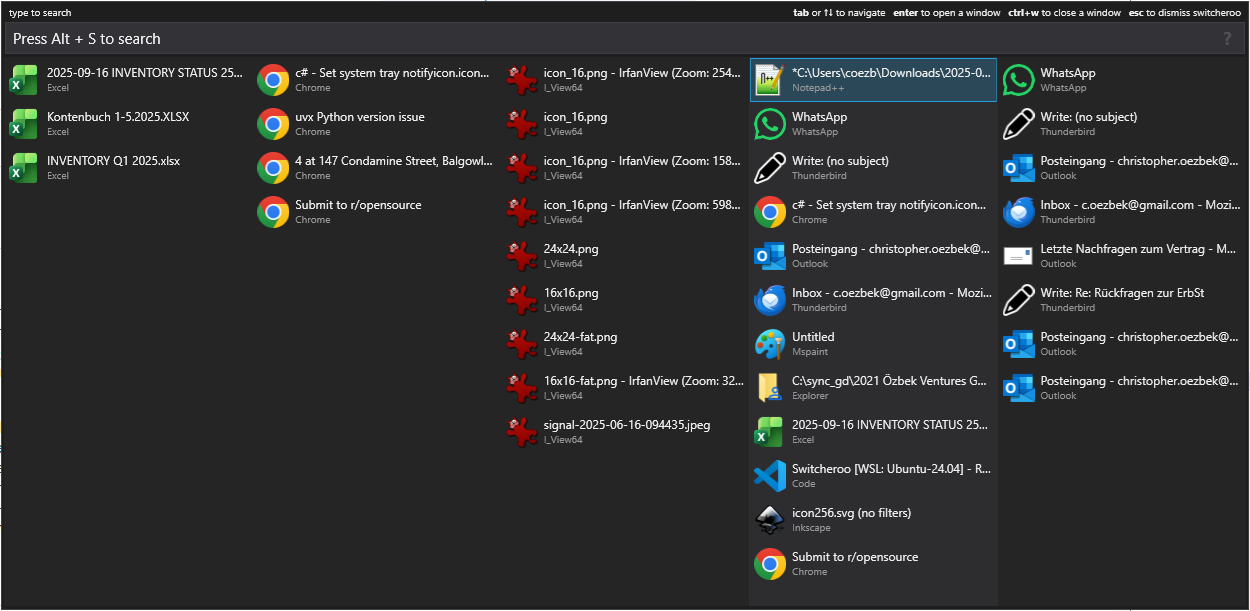
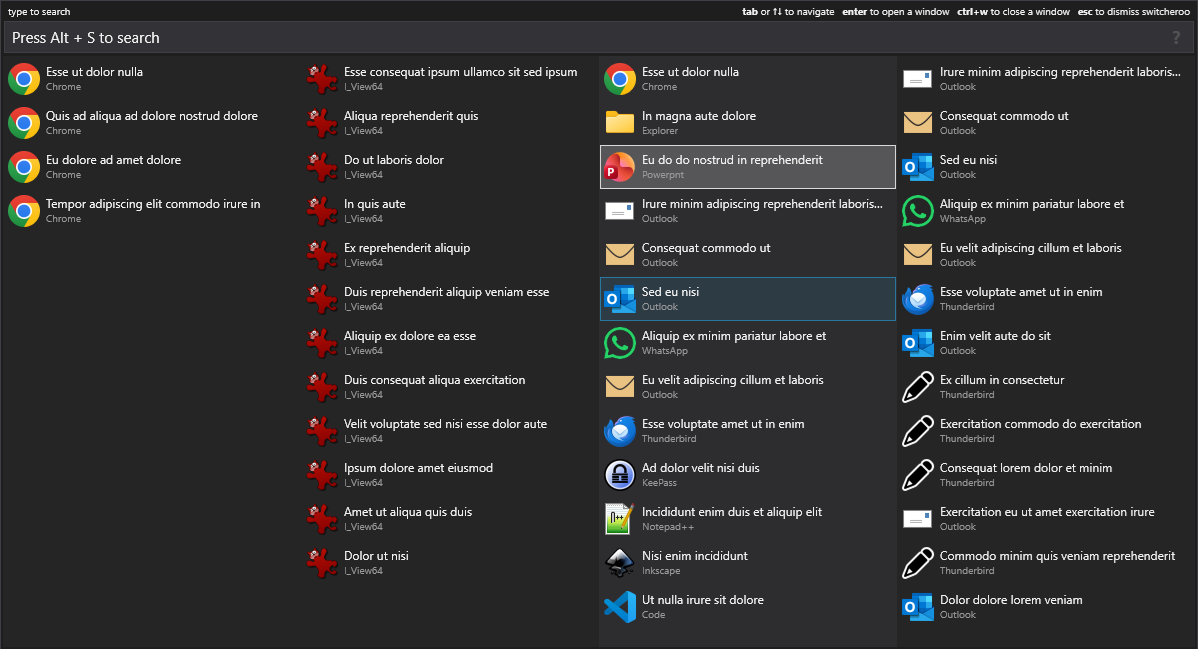
New Screenshot

Changed region(s): [[0.0, 0.0, 1.0, 1.0], [0.2471, 0.7774, 0.4015, 0.9018]]

diff --git a/README.md b/README.md
@@ -9,9 +9,7 @@ Switcheroo++ is a fork of [Regin Larsen's Switcheroo](https://github.com/kvakulo
 
 ## Screenshot
 
-<img src="icons/screenshot.png" alt="Screenshot of Switcheroo in action" width="1500px" height="477px">
-
-<img src="icons/screenshot-darkmode.png" alt="Darkmode of Switcheroo in action" width="1250px" height="611px">
+<img src="icons/screenshot-darkmode.png" alt="Darkmode of Switcheroo in action" width="1198px" height="649px">
 
 ## Download
 
